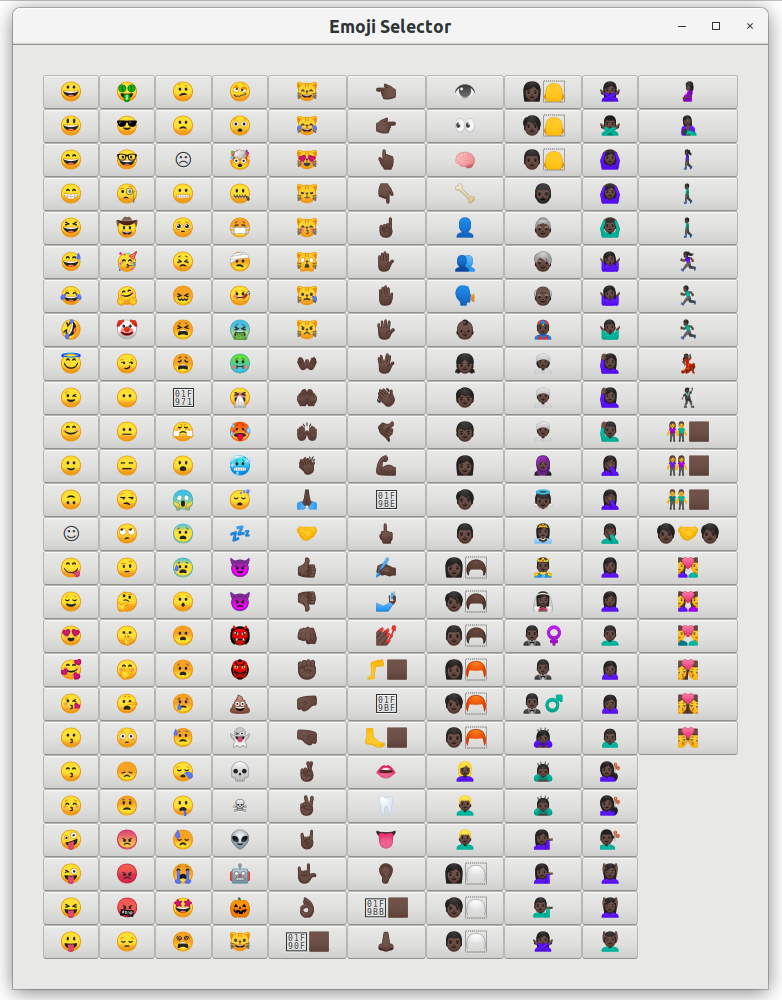
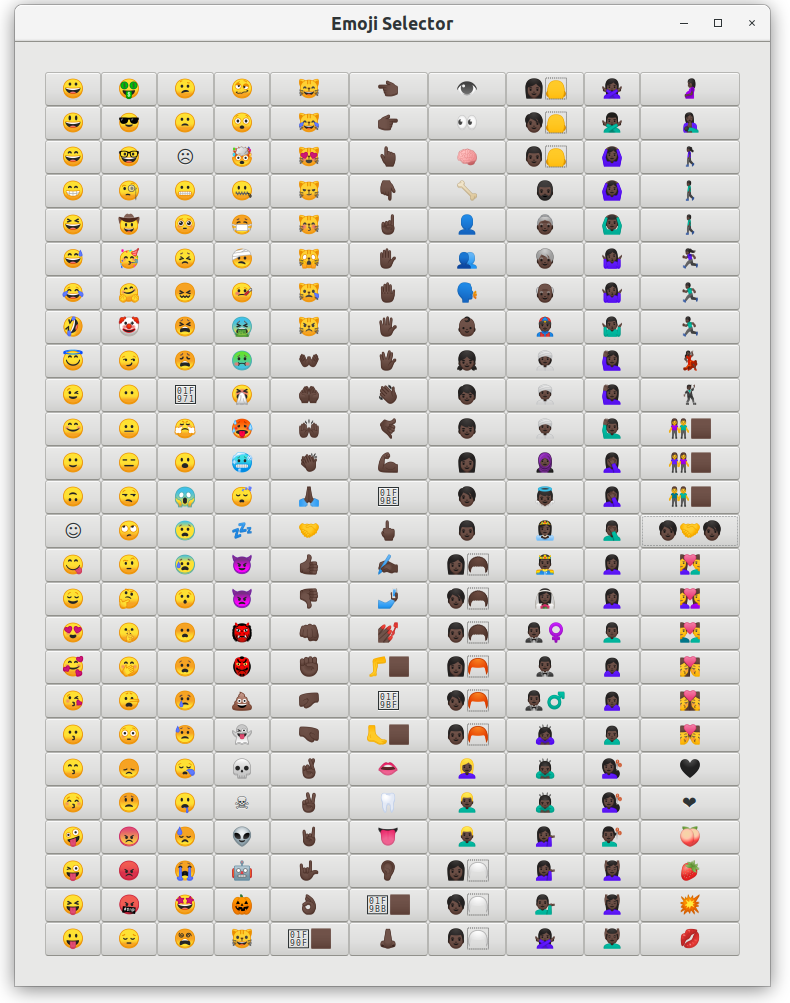
Adds some missing emojis I need

Changed region(s): [[0.0, 0.0, 1.0, 1.0]]

diff --git a/emojiSelector.c b/emojiSelector.c
@@ -1048,6 +1048,30 @@ activate (GtkApplication* app,
   g_signal_connect (emoji, "clicked", G_CALLBACK (copy_to_clipboard), "👨❤💋👨");
   gtk_grid_attach (GTK_GRID (emojisGrid), emoji, 9, 19, 1, 1);
 
+  emoji = gtk_button_new_with_label ("🖤");
+  g_signal_connect (emoji, "clicked", G_CALLBACK (copy_to_clipboard), "🖤");
+  gtk_grid_attach (GTK_GRID (emojisGrid), emoji, 9, 20, 1, 1);
+
+  emoji = gtk_button_new_with_label ("❤");
+  g_signal_connect (emoji, "clicked", G_CALLBACK (copy_to_clipboard), "❤");
+  gtk_grid_attach (GTK_GRID (emojisGrid), emoji, 9, 21, 1, 1);
+  
+  emoji = gtk_button_new_with_label ("🍑");
+  g_signal_connect (emoji, "clicked", G_CALLBACK (copy_to_clipboard), "🍑");
+  gtk_grid_attach (GTK_GRID (emojisGrid), emoji, 9, 22, 1, 1);
+  
+  emoji = gtk_button_new_with_label ("🍓");
+  g_signal_connect (emoji, "clicked", G_CALLBACK (copy_to_clipboard), "🍓");
+  gtk_grid_attach (GTK_GRID (emojisGrid), emoji, 9, 23, 1, 1);
+
+  emoji = gtk_button_new_with_label ("💥");
+  g_signal_connect (emoji, "clicked", G_CALLBACK (copy_to_clipboard), "💥");
+  gtk_grid_attach (GTK_GRID (emojisGrid), emoji, 9, 24, 1, 1);
+  
+  emoji = gtk_button_new_with_label ("💋");
+  g_signal_connect (emoji, "clicked", G_CALLBACK (copy_to_clipboard), "💋");
+  gtk_grid_attach (GTK_GRID (emojisGrid), emoji, 9, 25, 1, 1);
+
   gtk_widget_show_all (window);
   gtk_main();
 }
